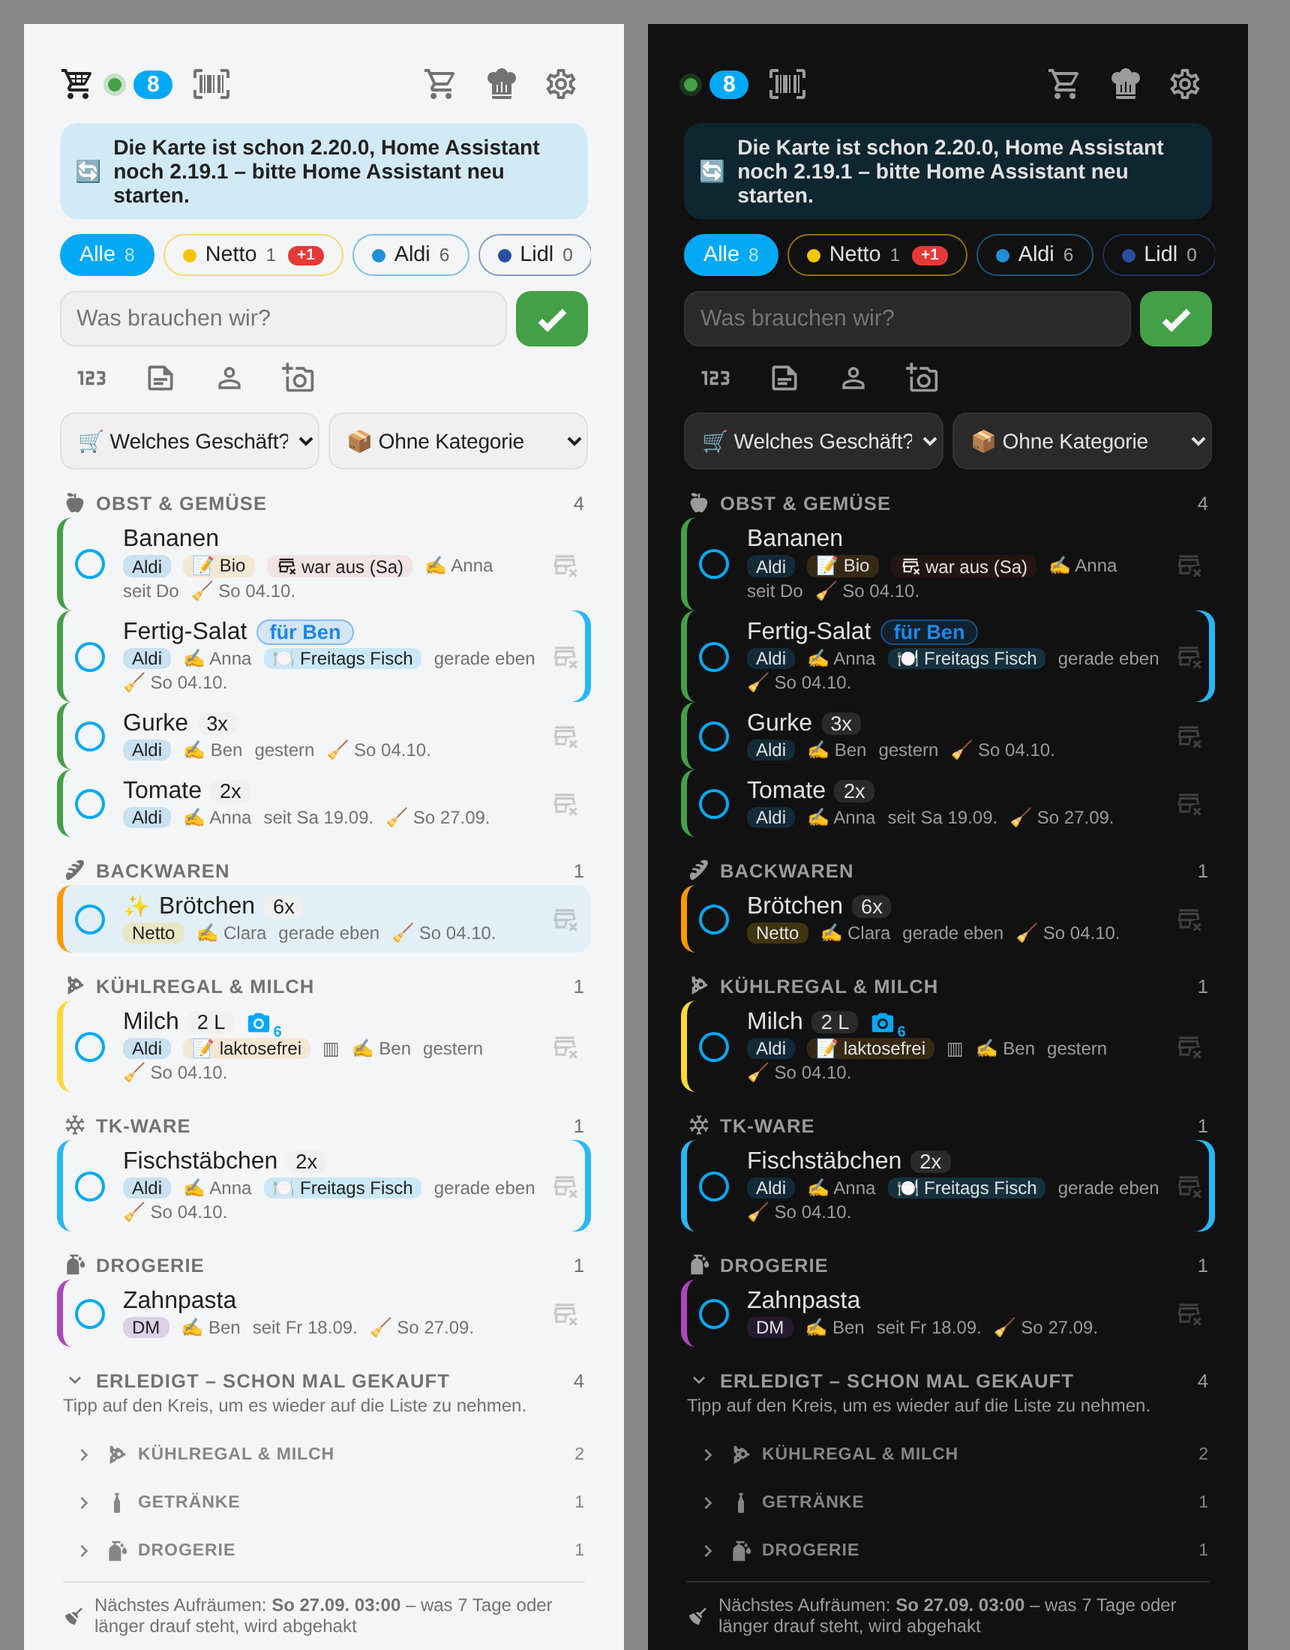
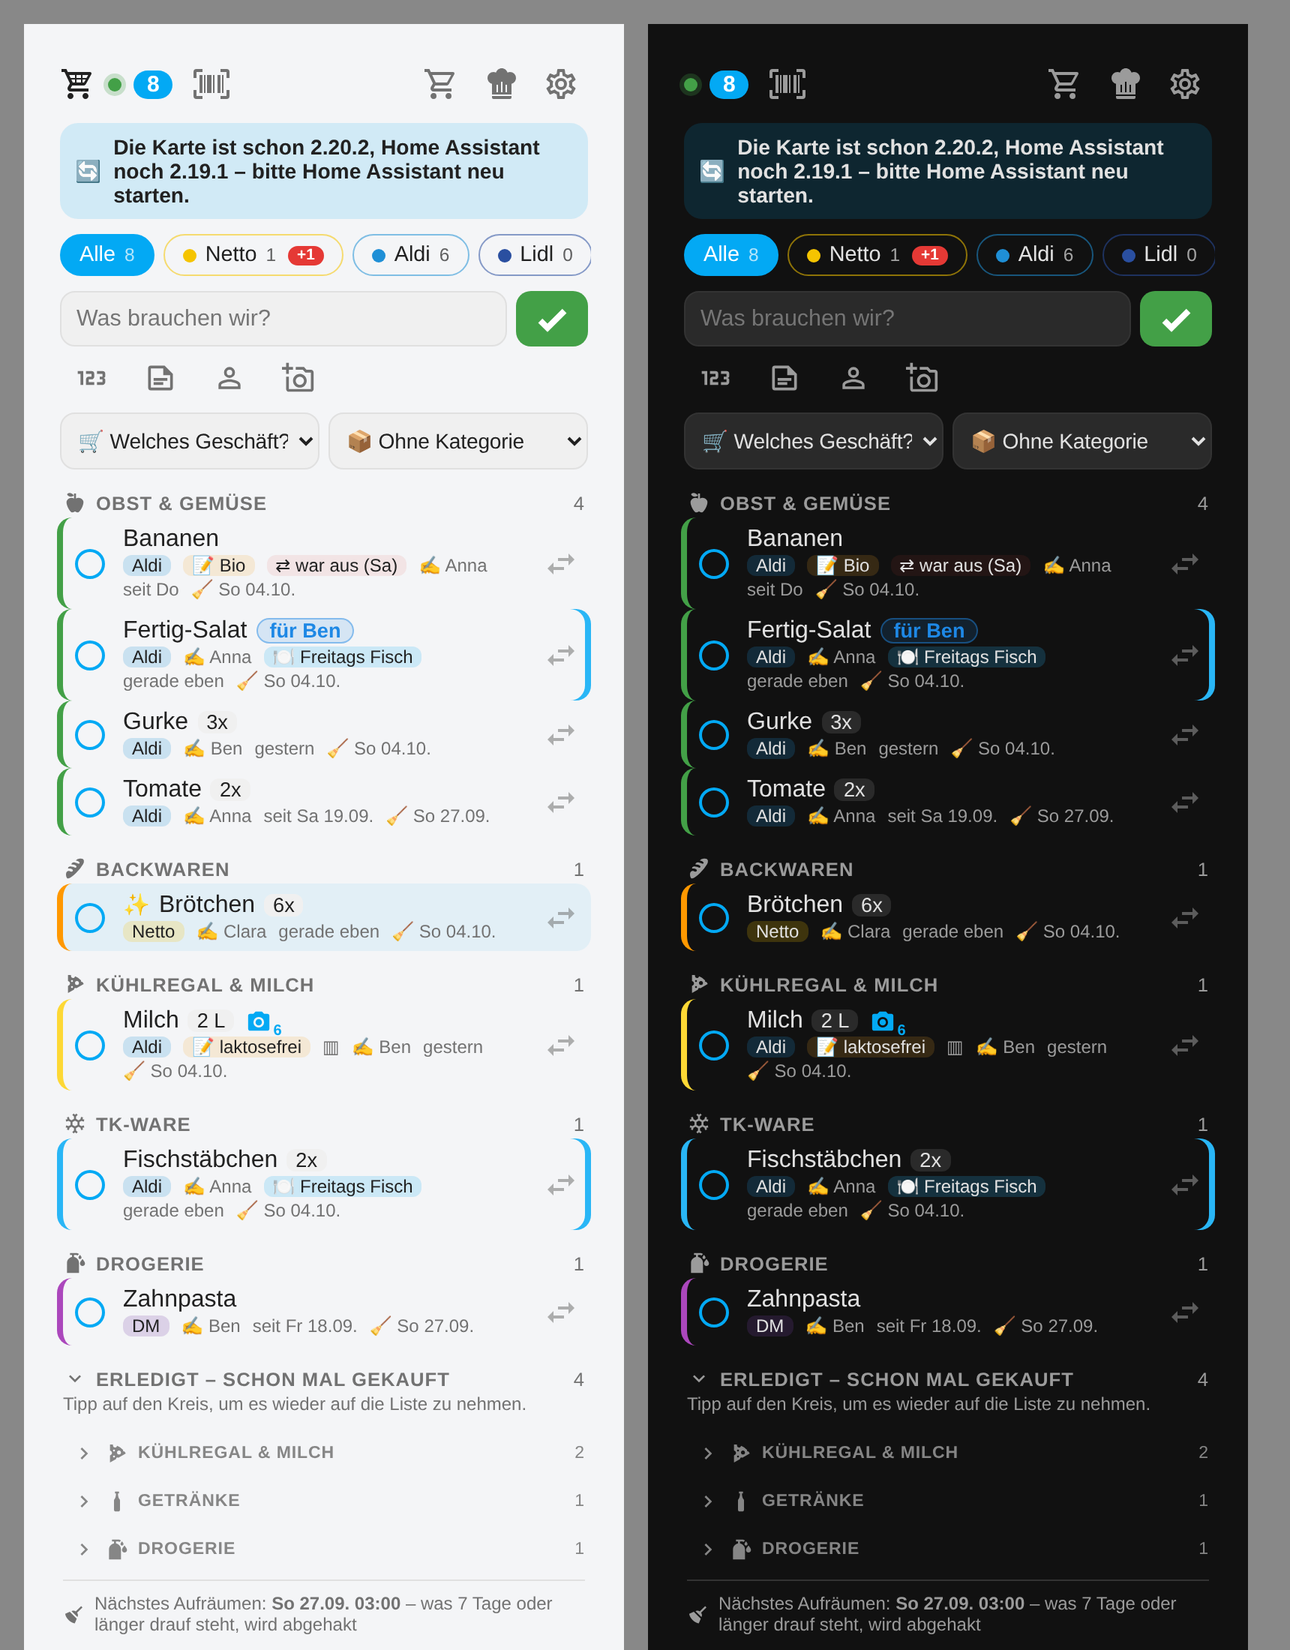
v2.20.3: ⇄ wieder als Symbol für „war aus“ (wie vorher)
Claude-Session: https://claude.ai/code/session_01WikQiCoAkHJd8e52mW1tf4

diff --git a/custom_components/einkaufsliste/www/einkaufsliste-card.js b/custom_components/einkaufsliste/www/einkaufsliste-card.js
@@ -2,7 +2,7 @@
  * Einkaufsliste Card – die Familien-Einkaufsliste für Home Assistant
  * Wird automatisch von der Integration "einkaufsliste" geladen.
  */
-const EL_VERSION = "2.20.2";
+const EL_VERSION = "2.20.3";
 
 // Doppelt-Finder: Wörter, die dasselbe meinen (alles klein, ohne Leer-/Sonderzeichen)
 const DUP_SYNONYMS = (() => {
@@ -652,7 +652,7 @@ ha-card.shop .item { padding:11px 5px; font-size:1.2em; }
 ha-card.shop .item .name { font-weight:600; }
 ha-card.shop .item .check { padding:9px; --mdc-icon-size:38px; }
 ha-card.shop .item .meta { font-size:.66em; }
-ha-card.shop .item .acts { opacity:.7; --mdc-icon-size:22px; }
+ha-card.shop .item .acts { opacity:1; --mdc-icon-size:26px; }
 ha-card.shop .item .acts .iconbtn { padding:8px; }
 ha-card.shop .item .qty { font-size:.8em; padding:2px 10px; }
 ha-card.shop .ghead { font-size:.95em; padding:10px 4px 4px; }
@@ -669,8 +669,6 @@ ha-card.compact .item .check { padding:3px; }
 ha-card.compact .ghead { padding:3px 4px 0; }
 ha-card.compact .group { margin-top:4px; }
 .item .acts { display:flex; opacity:.55; }
-/* 🏪✖ „war aus“: dezent – kleiner und blasser, damit es nicht ins Auge springt */
-.item .acts [data-act="move"] { --mdc-icon-size:19px; opacity:.6; }
 .delrow { padding:4px 0; border-bottom:1px solid var(--divider-color, rgba(127,127,127,.15)); }
 .delname { min-width:0; }
 .delname b { display:block; font-weight:500; word-break:break-word; }
@@ -725,7 +723,6 @@ ha-card.compact .group { margin-top:4px; }
 .servtag { font-weight:400; opacity:.75; }
 .rgrouprow select { width:auto; min-width:150px; }
 #titleIcon { cursor:pointer; }
-.item .meta .iout ha-icon { --mdc-icon-size:14px; vertical-align:-2px; }
 .item .meta .iout { color:var(--primary-text-color); font-weight:500; background:color-mix(in srgb, var(--error-color, #db4437) 9%, transparent); border-radius:6px; padding:0 6px; font-weight:400; }
 .moverow .outbtn { --c:var(--primary-color,#03a9f4); display:inline-flex; align-items:center; gap:4px; --mdc-icon-size:16px; }
 .bclist { display:flex; flex-wrap:wrap; gap:6px; }
@@ -1468,7 +1465,7 @@ class EinkaufslisteCard extends HTMLElement {
     // Reihenfolge unter dem Namen: Geschäft · Notiz · Barcode · wer eingetragen · wer abgehakt · (Rezept, Zeit)
     if (item.note) meta.push(`<span class="inote">📝 ${esc(item.note)}</span>`);
     if (!item.checked && item.out_at && Date.now() - new Date(item.out_at) < 3 * DAY)
-      meta.push(`<span class="iout" title="Beim letzten Einkauf nicht bekommen"><ha-icon icon="mdi:store-remove-outline"></ha-icon> war aus (${WD_SHORT[pyWd(new Date(item.out_at))]})</span>`);
+      meta.push(`<span class="iout" title="Beim letzten Einkauf nicht bekommen">⇄ war aus (${WD_SHORT[pyWd(new Date(item.out_at))]})</span>`);
     const pk = this._pk(item.name, item.note);
     const codes = this._barcodesOf(pk);
     if (codes.length && !this._shopMode) meta.push(`<span class="bc" title="Barcode hinterlegt: ${esc(codes.join(", "))}">▥</span>`);
@@ -1498,7 +1495,7 @@ class EinkaufslisteCard extends HTMLElement {
           <div class="line">${isNew ? `<span class="newbadge" title="Neu seit deinem letzten Blick">✨</span>` : ""}<span class="name">${esc(item.name)}</span>${qty}${who}${this._hasPhoto(pk) ? `<button class="photobtn" data-act="photo-view" data-name="${esc(pk)}" title="Foto ansehen"><ha-icon icon="mdi:camera"></ha-icon>${this._data.photo_counts?.[pk] > 1 ? `<small class="pcount">${this._data.photo_counts[pk]}</small>` : ""}</button>` : ""}</div>
           ${meta.length ? `<div class="meta">${meta.join("")}</div>` : ""}
         </div>
-        ${!item.checked && this._data.stores.length > 1 ? `<div class="acts"><button class="iconbtn" data-act="move" title="War aus – in anderes Geschäft"><ha-icon icon="mdi:store-remove-outline"></ha-icon></button></div>` : ""}
+        ${!item.checked && this._data.stores.length > 1 ? `<div class="acts"><button class="iconbtn" data-act="move" title="War aus – in anderes Geschäft"><ha-icon icon="mdi:swap-horizontal"></ha-icon></button></div>` : ""}
       </div>`;
   }
 
@@ -1507,7 +1504,7 @@ class EinkaufslisteCard extends HTMLElement {
     return `
       <div class="menurow" data-id="${item.id}">
         ${b("menu-edit", "mdi:pencil-outline", "Bearbeiten")}
-        ${!item.checked && this._data.stores.length > 1 ? b("menu-move", "mdi:store-remove-outline", "Verschieben") : ""}
+        ${!item.checked && this._data.stores.length > 1 ? b("menu-move", "mdi:swap-horizontal", "Verschieben") : ""}
         ${b("menu-qty", "mdi:numeric", "Menge")}
         ${b("menu-cat", "mdi:shape-outline", "Kategorie")}
         ${b("menu-photo", "mdi:camera-plus-outline", this._hasPhoto(this._pk(item.name, item.note)) ? "Fotos" : "Foto")}
@@ -3250,7 +3247,7 @@ class EinkaufslisteCard extends HTMLElement {
         <li>Oben die Reiter: <b>Alle</b>, Aldi, Netto … Die Zahl zeigt, wie viel dort offen ist.</li>
         <li>Die <b>rote Blase</b> heißt: Da ist was Neues dazugekommen, seit du zuletzt geschaut hast.</li>
         <li><b>✨</b> am Artikel = neu (verschwindet nach 24 Stunden).</li>
-        <li><b>🏪✖</b> am Artikel = war aus: <b>„Nächstes Mal wieder hier“</b> (bleibt offen, alle sehen „war aus“) oder gleich in ein anderes Geschäft schieben.</li></ul>`)}
+        <li><b>⇄</b> am Artikel = war aus: <b>„Nächstes Mal wieder hier“</b> (bleibt offen, alle sehen „war aus“) oder gleich in ein anderes Geschäft schieben.</li></ul>`)}
       ${sec("👆", "Ändern & lange drücken", `<ul>
         <li>Artikel <b>lange drücken</b> = Menü: Bearbeiten, Verschieben, Menge, Kategorie, Foto, Barcode.</li>
         <li>Menge direkt ändern: auf die Menge tippen, dann <span class="elg-k">−</span> und <span class="elg-k">＋</span>.</li>
@@ -4069,7 +4066,7 @@ class EinkaufslisteCard extends HTMLElement {
         this._moving = this._moving === id ? null : id;
         this._renderList();
         break;
-      case "move-out": { // 🏪✖ war aus, bleibt hier offen
+      case "move-out": { // ⇄ war aus, bleibt hier offen
         const itemId = el.closest(".moverow").dataset.id;
         this._moving = null;
         this._ws({ type: "einkaufsliste/item/out", item_id: itemId })

diff --git a/custom_components/einkaufsliste/const.py b/custom_components/einkaufsliste/const.py
@@ -3,7 +3,7 @@
 from __future__ import annotations
 
 DOMAIN = "einkaufsliste"
-VERSION = "2.20.2"
+VERSION = "2.20.3"
 
 STORAGE_KEY = f"{DOMAIN}.data"
 STORAGE_VERSION = 1

diff --git a/README.md b/README.md
@@ -32,7 +32,7 @@
 | 📸 **Fotos** | Ein Foto zum Artikel („genau diese Marke!“), auswählbar direkt beim Eintragen. |
 | 🔍 **Barcode** | In der Home-Assistant-App scannen: zu Hause zum **Eintragen** (auch mehrere hintereinander), im Laden zum **Abhaken**. |
 | 📖 **Kategorie raten** | Tippst du „Joghurt“, springt die Kategorie von selbst auf Kühlregal, bei „Pizza“ auf TK-Ware. Dafür gibt es ein eingebautes Wörterbuch mit rund 250 Produkten. Wählst du selbst etwas aus, hat das Vorrang. |
-| 🔁 **„War aus!“** | Gab's bei Aldi nicht? Tipp am Artikel auf **🏪✖**. Dann entweder **„Nächstes Mal wieder hier“** – der Artikel bleibt bei Aldi offen, alle sehen **„🏪✖ war aus (Sa)“** (3 Tage lang), und die Aufräum-Frist zählt ab heute neu – oder gleich ein anderes Geschäft, z. B. **Netto**: bei Aldi abgehakt, bei Netto offen. |
+| 🔁 **„War aus!“** | Gab's bei Aldi nicht? Tipp am Artikel auf **⇄**. Dann entweder **„Nächstes Mal wieder hier“** – der Artikel bleibt bei Aldi offen, alle sehen **„⇄ war aus (Sa)“** (3 Tage lang), und die Aufräum-Frist zählt ab heute neu – oder gleich ein anderes Geschäft, z. B. **Netto**: bei Aldi abgehakt, bei Netto offen. |
 | 📍 **Nächstes Geschäft** | Bist du bei einem Geschäft, springt die Liste automatisch auf dessen Reiter. Jeder sieht dabei sein eigenes Geschäft. |
 | 🛒 **Laden-Modus** | Ein Tipp auf den Wagen oben: große Zeilen, dicke Kreise, das Eingabefeld ist weg. Nur noch abhaken, auch mit einer Hand am Einkaufswagen. |
 | 🔗 **Doppelt-Finder** | Stehen „Tomate“ und „Tomaten“ (oder „Klopapier“ und „Toilettenpapier“) gleichzeitig drauf, fragt die Liste: **Zusammenlegen?** |
@@ -142,12 +142,12 @@ Was du gewählt hast, steht direkt am Symbol, zum Beispiel **🔢 2x · 👤 Oma
 ## 👆 Bedienung in der Liste
 
 - **⭕ Kreis antippen:** abhaken
-- **🏪✖ antippen:** „War aus!“ – zwei Möglichkeiten:
-  - **Nächstes Mal wieder hier:** Der Artikel bleibt offen beim selben Geschäft und bekommt **„🏪✖ war aus (Sa)“** – so wissen zu Hause alle Bescheid. Der Hinweis verschwindet nach 3 Tagen oder beim Abhaken. Die 7-Tage-Frist fürs automatische Aufräumen **fängt ab diesem Tag neu an**.
+- **⇄ antippen:** „War aus!“ – zwei Möglichkeiten:
+  - **Nächstes Mal wieder hier:** Der Artikel bleibt offen beim selben Geschäft und bekommt **„⇄ war aus (Sa)“** – so wissen zu Hause alle Bescheid. Der Hinweis verschwindet nach 3 Tagen oder beim Abhaken. Die 7-Tage-Frist fürs automatische Aufräumen **fängt ab diesem Tag neu an**.
   - **Anderes Geschäft:** Beim alten Geschäft wird der Artikel **abgehakt** (er bleibt dort unten bei „Erledigt“), beim neuen steht er **offen**.
 - **🔗 „Alle“ fasst zusammen:** Gibt es ein Produkt bei mehreren Geschäften, steht es bei **„Alle“ nur einmal**, mit den Geschäften darunter. Oben stehen nur die Geschäfte, wo es noch zu kaufen ist. Unten bei „Erledigt“ tippst du auf den Kreis und wählst **„Wieder drauf bei: Aldi / Netto“**. In den einzelnen Geschäfts-Reitern bleibt alles, wie es ist.
 - **🛒 Schon woanders offen?** Trägst du „Brot“ bei Aldi ein, obwohl es bei Netto noch offen ist, fragt die Liste: **„Nach Aldi verschieben“** oder **„Zusätzlich bei Aldi“**. Nur wenn du „Zusätzlich“ wählst, ist es bei beiden offen. Dann fragt „Alle“ beim Abhaken: **„Wo gekauft?“**
-- **Artikel lange drücken** (am PC: Rechtsklick): Es öffnet sich ein Menü (klappt nach 8 Sekunden ohne Tipp von selbst wieder zu) mit ✏ **Bearbeiten** · 🏪✖ **Verschieben** („War aus!“) · 🔢 **Menge** · 📦 **Kategorie** · 📷 **Foto** · ▥ **Barcode**
+- **Artikel lange drücken** (am PC: Rechtsklick): Es öffnet sich ein Menü (klappt nach 8 Sekunden ohne Tipp von selbst wieder zu) mit ✏ **Bearbeiten** · ⇄ **Verschieben** („War aus!“) · 🔢 **Menge** · 📦 **Kategorie** · 📷 **Foto** · ▥ **Barcode**
 - **Auf die Menge tippen** (zum Beispiel „2x“): Es erscheint **[−] 2x [＋]** zum schnellen Ändern
 - **✨ und rote Blase:** Artikel, die **andere** eingetragen haben, seit du zuletzt geschaut hast, bekommen ein ✨. Am Geschäfts-Reiter steht dann zum Beispiel **„+2“**. Die Blase bleibt stehen, bis du **genau diesen Reiter** antippst (nur „Alle“ anschauen reicht nicht), und sie verschwindet **nur bei dir**. Jeder hat seine eigene, wie bei WhatsApp. 🔴
 - **Farbstreifen:** Jede Kategorie hat ihre Farbe (links am Artikel). Die Farben änderst du im ⚙ Zahnrad bei den Kategorien.
